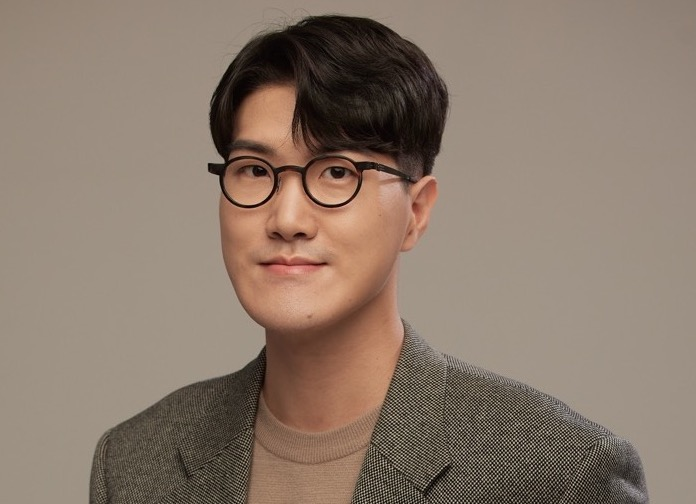
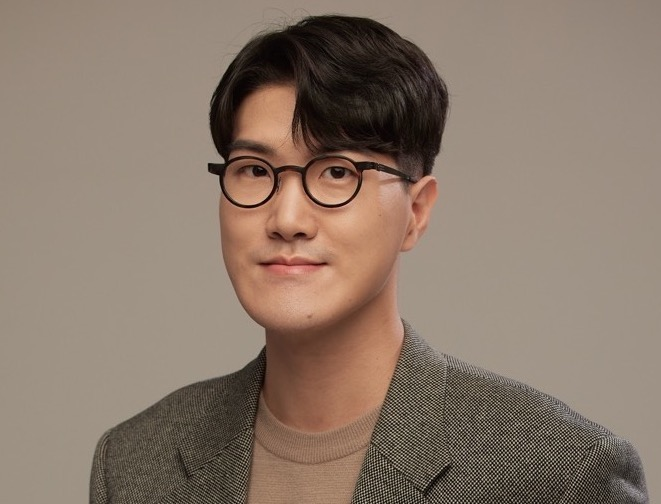
tweaks again

Changed region(s): [[0.121, 0.0298, 0.9985, 1.0]]

diff --git a/data/authors/default.md b/data/authors/default.md
@@ -1,7 +1,7 @@
 ---
 name: JiWoong Jang (장지웅)
 koreanname: (I usually go by Joon)
-avatar: '/static/images/profile/alt-profile-square.jpg'
+avatar: '/static/images/profile/cafe-shot-1-square.jpg'
 
 occupation: research in A11y & HCI
 company: phd student @ CMU HCII
